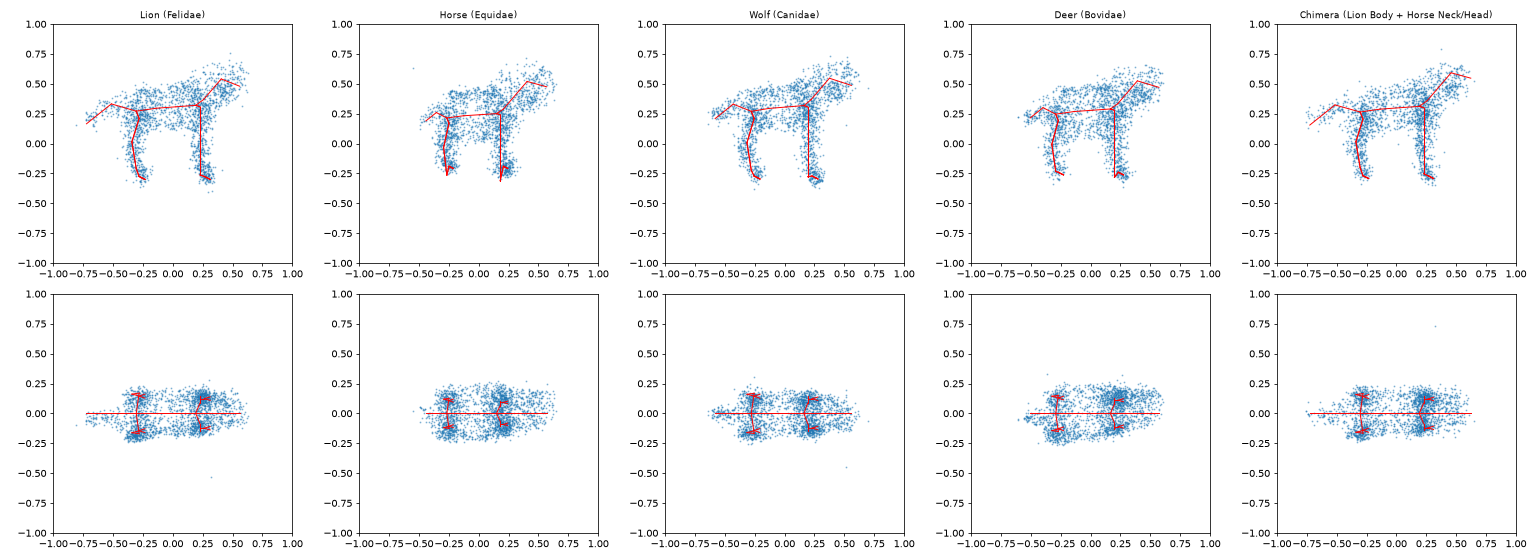
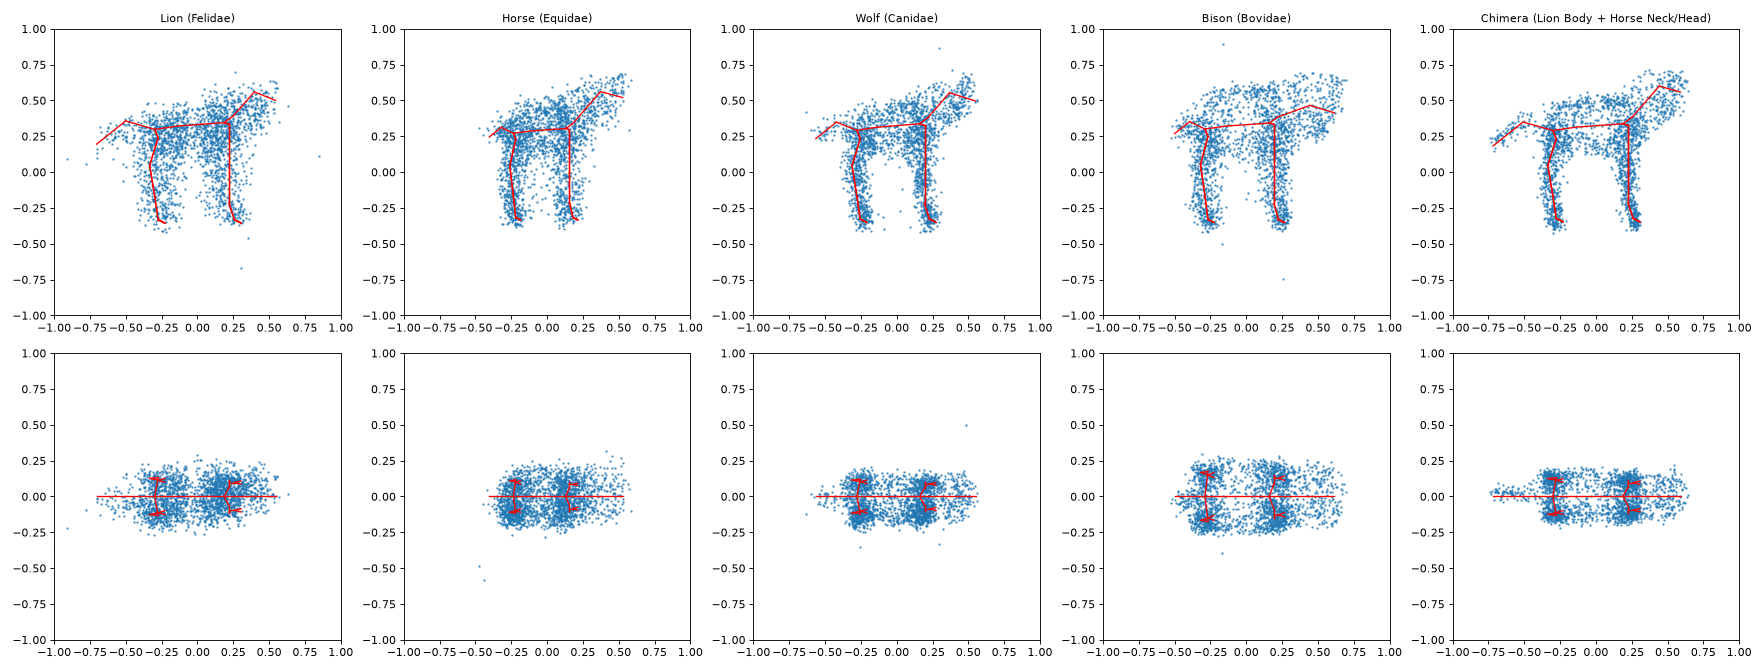
docs: README image regenerated from the generator v4 model
- scripts/plot_creatures.py draws side and top views from
  viewer/data/creatures.json, so the image matches the viewer
- docs/images/creatures.png now shows the v4 specimens (bison with low
  neck and wide stance)

diff --git a/scripts/plot_creatures.py b/scripts/plot_creatures.py
@@ -1,0 +1,44 @@
+import os
+import argparse
+import json
+import numpy as np
+import matplotlib
+matplotlib.use("Agg")
+import matplotlib.pyplot as plt
+
+def main():
+    """
+    Side and top views of the exported creatures (final step of each trajectory) with their skeleton,
+    so the README image always shows the same specimens as the viewer.
+    """
+    parser = argparse.ArgumentParser(description="Plot exported creatures for the README.")
+    parser.add_argument("--input", type=str, default="viewer/data/creatures.json")
+    parser.add_argument("--output", type=str, default="docs/images/creatures.png")
+    args = parser.parse_args()
+
+    with open(args.input, "r", encoding="utf-8") as f:
+        creatures = json.load(f)["creatures"]
+
+    fig, axes = plt.subplots(2, len(creatures), figsize=(4.4 * len(creatures), 8.4), squeeze=False)
+    for col, c in enumerate(creatures):
+        points = np.array(c["trajectory"][-1])
+        joints = np.array(c["joints"])
+        bones = [(p, k) for k, p in enumerate(c["joint_parents"]) if p >= 0]
+        # Row 0: side view (x, y); row 1: top view (x, z)
+        for row, axis in enumerate([1, 2]):
+            ax = axes[row, col]
+            ax.scatter(points[:, 0], points[:, axis], s=1.5, alpha=0.6)
+            for p, k in bones:
+                ax.plot(joints[[p, k], 0], joints[[p, k], axis], color="red", linewidth=1.2)
+            ax.set_xlim(-1, 1)
+            ax.set_ylim(-1, 1)
+            ax.set_aspect("equal")
+        axes[0, col].set_title(c["name"], fontsize=10)
+
+    fig.tight_layout()
+    os.makedirs(os.path.dirname(args.output), exist_ok=True)
+    fig.savefig(args.output, dpi=80)
+    print(f"Saved {len(creatures)} creatures to {args.output}")
+
+if __name__ == "__main__":
+    main()

diff --git a/README.md b/README.md
@@ -132,6 +132,7 @@ Le modèle publié et la visionneuse utilisent le générateur v4 (seed 0).
 │   ├── prepare_data.py           # Génération et mise en cache du dataset
 │   ├── train.py                  # Entraînement
 │   ├── sample_and_export.py      # Génération de trajectoires & export JSON pour la visionneuse
+│   ├── plot_creatures.py         # Image du README à partir des créatures exportées
 │   ├── evaluate.py               # Chamfer Distance & couverture du squelette
 │   └── evaluate_families.py      # Reconnaissance de famille & matrice de confusion
 ├── tests/                        # Tests unitaires et test d'overfit (pytest)
@@ -178,6 +179,7 @@ python scripts/evaluate_families.py
 ```bash
 python scripts/sample_and_export.py                                        # dernier checkpoint de la config
 python scripts/sample_and_export.py --checkpoint checkpoints/<run>/model_epoch_030.pt
+python scripts/plot_creatures.py                                          # régénère docs/images/creatures.png
 ```
 
 ### 7. Lancement de la visionneuse 3D
